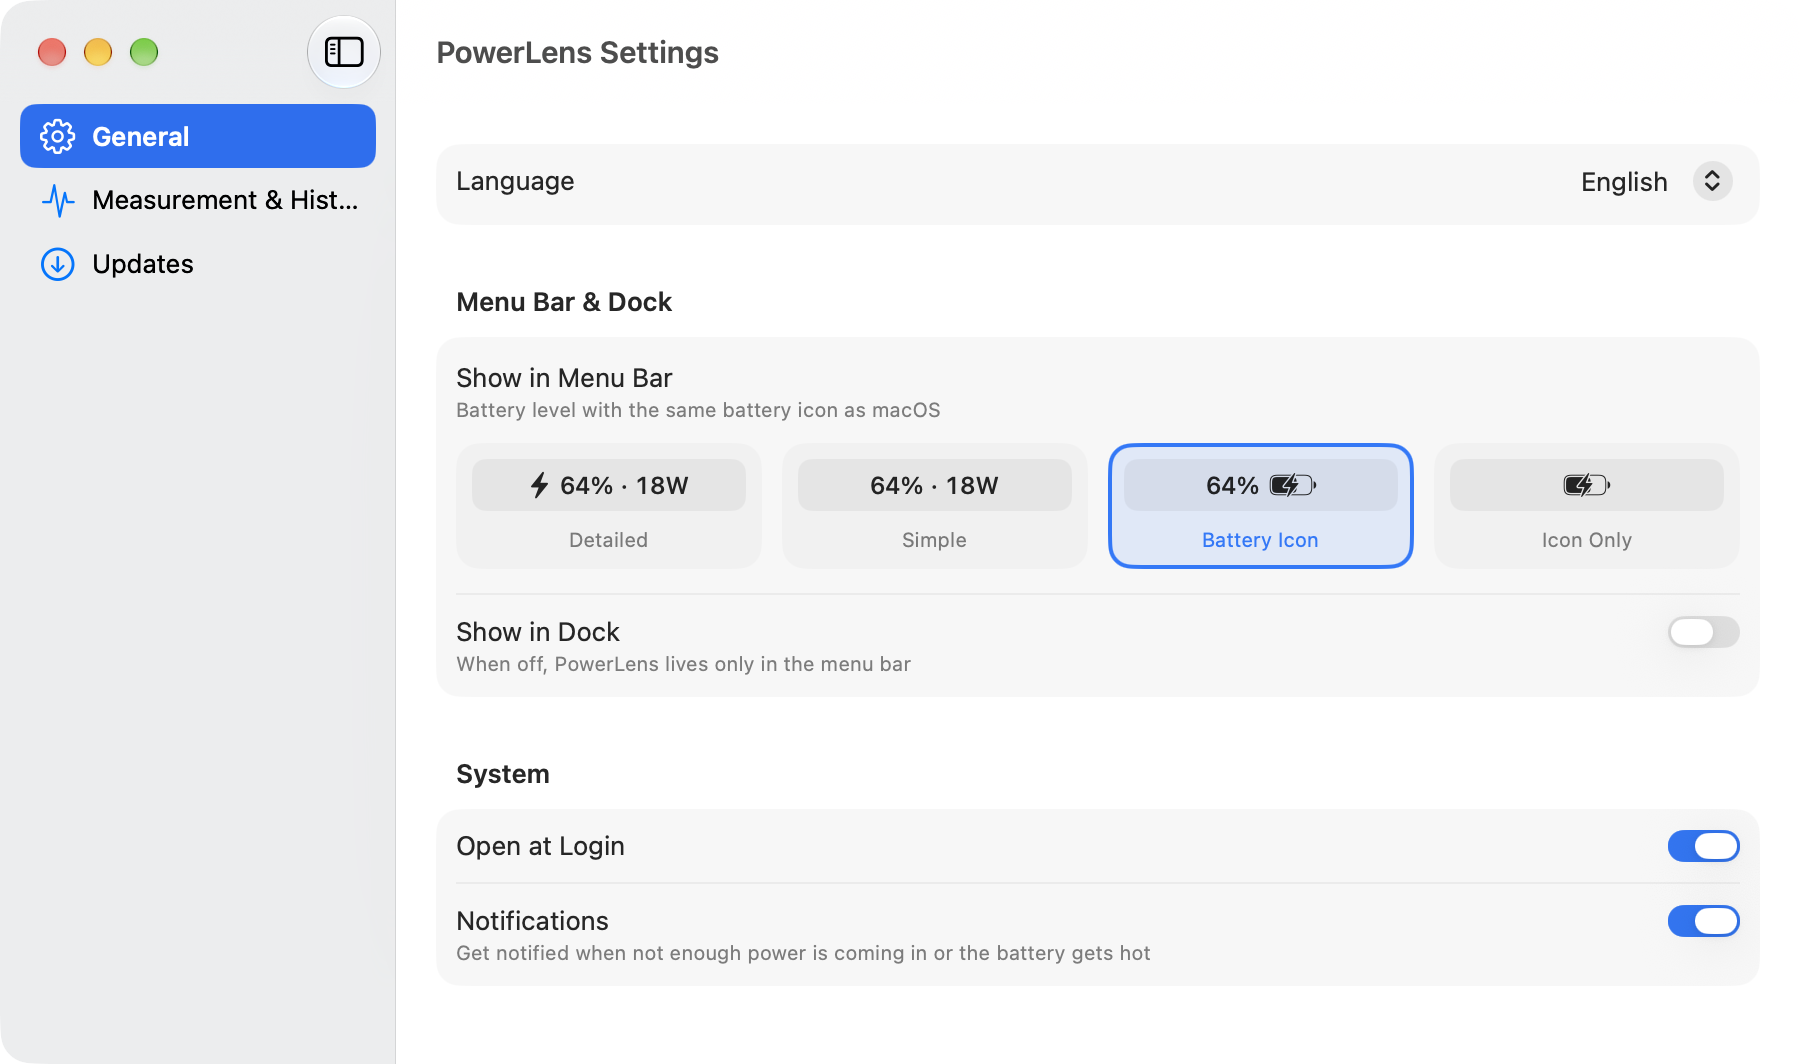
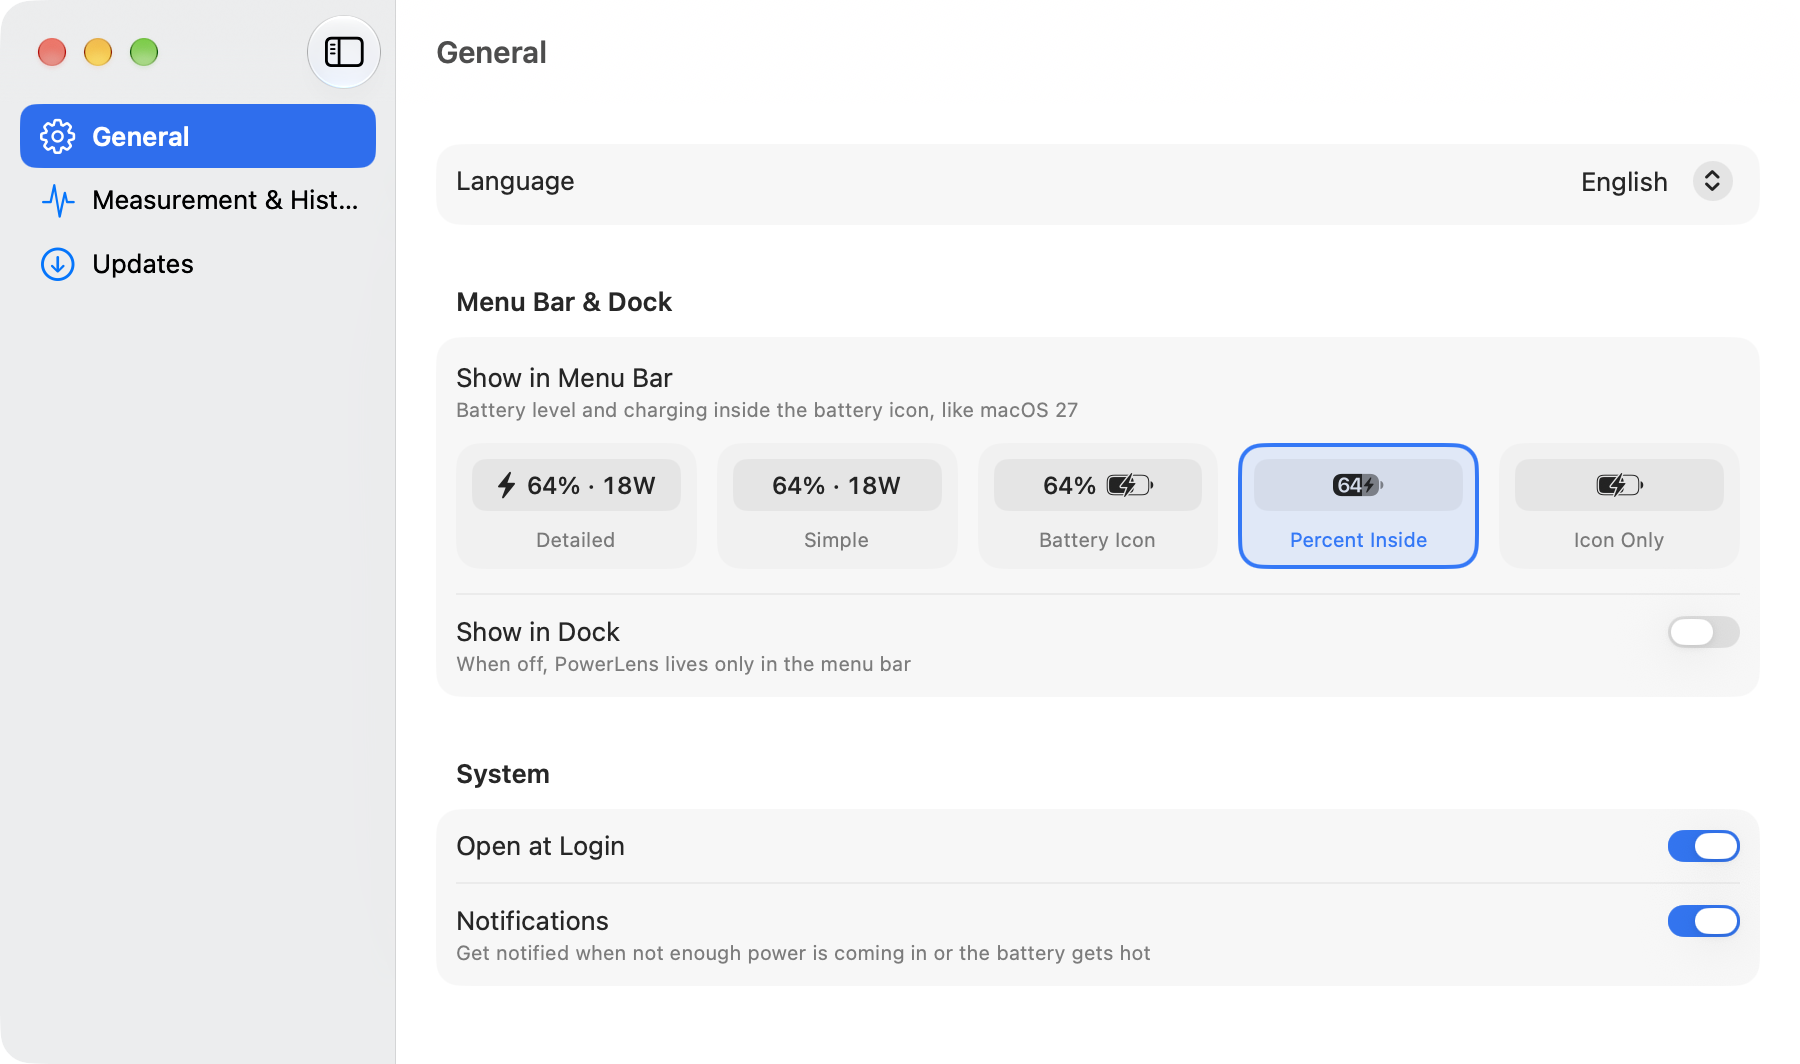
chore: finalize 0.9.6 release notes
Date the 0.9.6 section. Fold the Detailed style's Low Power Mode tint into
the battery icon entry, and add the user-visible changes since 0.9.5 that
had no entry: the shortfall wording, battery temperature bands,
full-precision history with its pre-upgrade backup, app energy sampling
only while shown, missing readings shown as unavailable, and Sparkle 2.10.1.

Recapture the Settings screenshot with the five menu bar styles and Percent
Inside selected, in demo mode as docs/assets/screenshots describes.

diff --git a/CHANGELOG.md b/CHANGELOG.md
@@ -4,7 +4,7 @@ All notable changes to PowerLens will be documented in this file.
 
 PowerLens uses `0.x` versioning until the first stable `1.0` release.
 
-## [Unreleased]
+## [0.9.6] - 2026-11-05
 
 ### Added
 
@@ -17,7 +17,6 @@ PowerLens uses `0.x` versioning until the first stable `1.0` release.
 - Settings previews each menu bar style and describes each telemetry engine.
 - A Percent Inside menu bar style draws the rounder macOS 27 battery with the
   level and the charging bolt or plug inside the icon, on macOS 26 as well.
-- In Low Power Mode, the Detailed style's menu bar symbol turns yellow too.
 
 ### Changed
 
@@ -34,13 +33,24 @@ PowerLens uses `0.x` versioning until the first stable `1.0` release.
 - Show Details and Hide Details in the popover now slide the popover open and
   closed, uncovering the details in place, instead of jumping to the new
   size. With Reduce Motion on, the popover still changes size at once.
-- In Low Power Mode, the menu bar battery icon fills yellow, matching the macOS
-  battery icon. A sustained charger shortfall adds a red badge instead of
-  changing the fill.
-- The Dashboard and popover no longer draw while hidden, which lowers
+- In Low Power Mode, the menu bar battery icons fill yellow, matching the macOS
+  battery icon, and the Detailed style's symbol turns yellow. A sustained
+  charger shortfall adds a red badge instead of changing the fill.
+- A power shortfall now reads "Not enough power coming in" instead of blaming
+  the charger, since a cable, hub, or USB-C power negotiation can cause it too.
+- Battery temperature is rated from the battery's own sensor instead of the
+  Mac's overall thermal state: warm from 36°C and hot from 40°C. The popover,
+  Dashboard, and alerts use the same bands.
+- History saves readings at full precision, so charts rebuilt from history
+  match the live display. Before upgrading saved history to a new format,
+  PowerLens keeps a backup of the old database for up to 14 days, so going
+  back to the previous version stays possible.
+- The Dashboard and popover no longer draw while hidden, and app energy is
+  sampled only while the popover or Dashboard shows the list. This lowers
   PowerLens's energy use when only its menu bar icon is visible.
 - Adapter ratings and battery capacities use whole numbers with digit
   grouping, such as 97W and 6,249 mAh.
+- Updated Sparkle to 2.10.1.
 
 ### Fixed
 
@@ -48,6 +58,8 @@ PowerLens uses `0.x` versioning until the first stable `1.0` release.
   battery temperature appear again with the More Precise measurement method.
   macOS 27.2 moved the capacities and removed the temperature reading that
   PowerLens used; temperature now comes from the battery's own sensors.
+- Missing readings show as unavailable instead of as 0 W, an empty gauge, or a
+  battery in good shape.
 
 ## [0.9.5] - 2026-10-20
 
